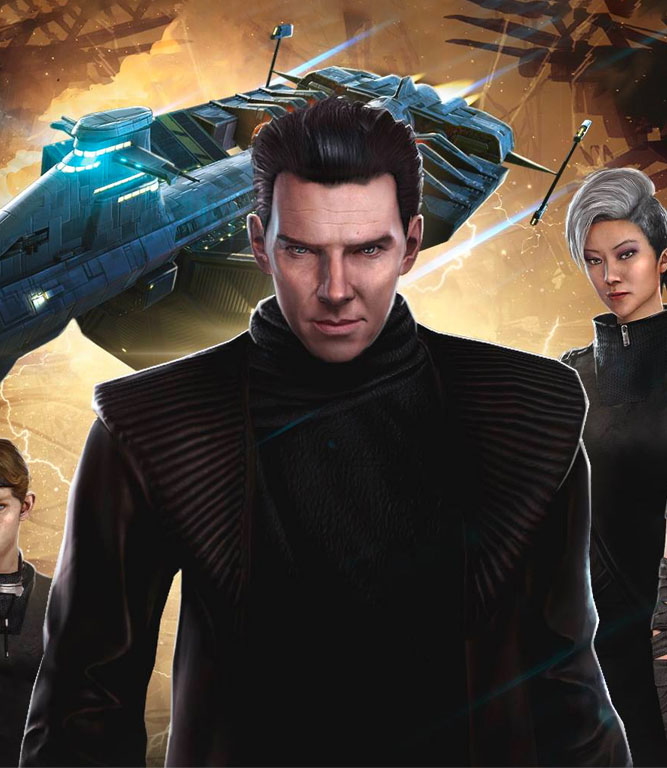
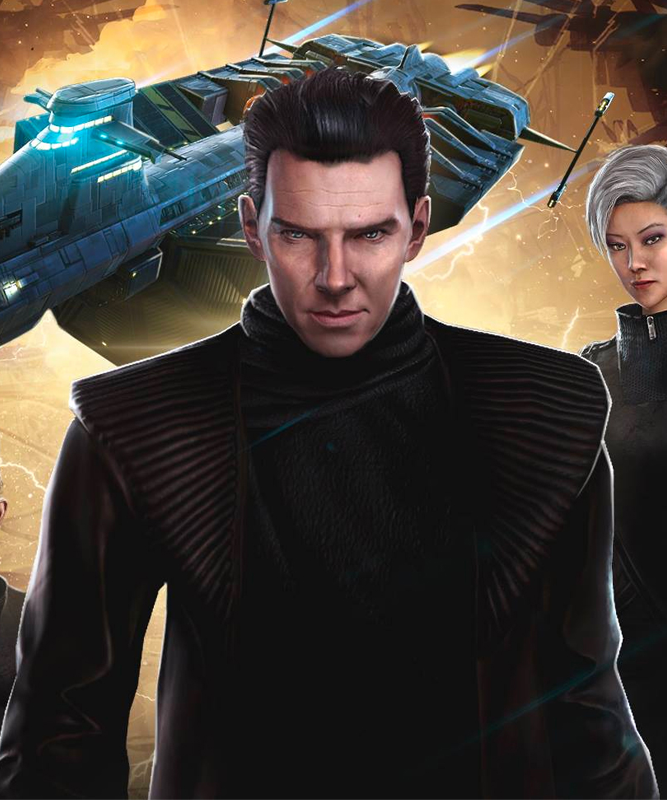
definitive commit

diff --git a/css/style.css b/css/style.css
@@ -118,7 +118,6 @@
 .btn:hover {
     background: linear-gradient(180deg, #3ce9e9, #339484);
     transition: 0.9s ease-in-out;
-    
 }
 
 .btn-2 {
@@ -305,7 +304,7 @@
             rgba(0,0,0,.3),rgba(0,0,0,.2)
           ),
           url(../img/bg-mobile-1.png) no-repeat;
-          height: 100%;
+          background-size: 736px;
     }
     .section {
         flex-direction: column;
